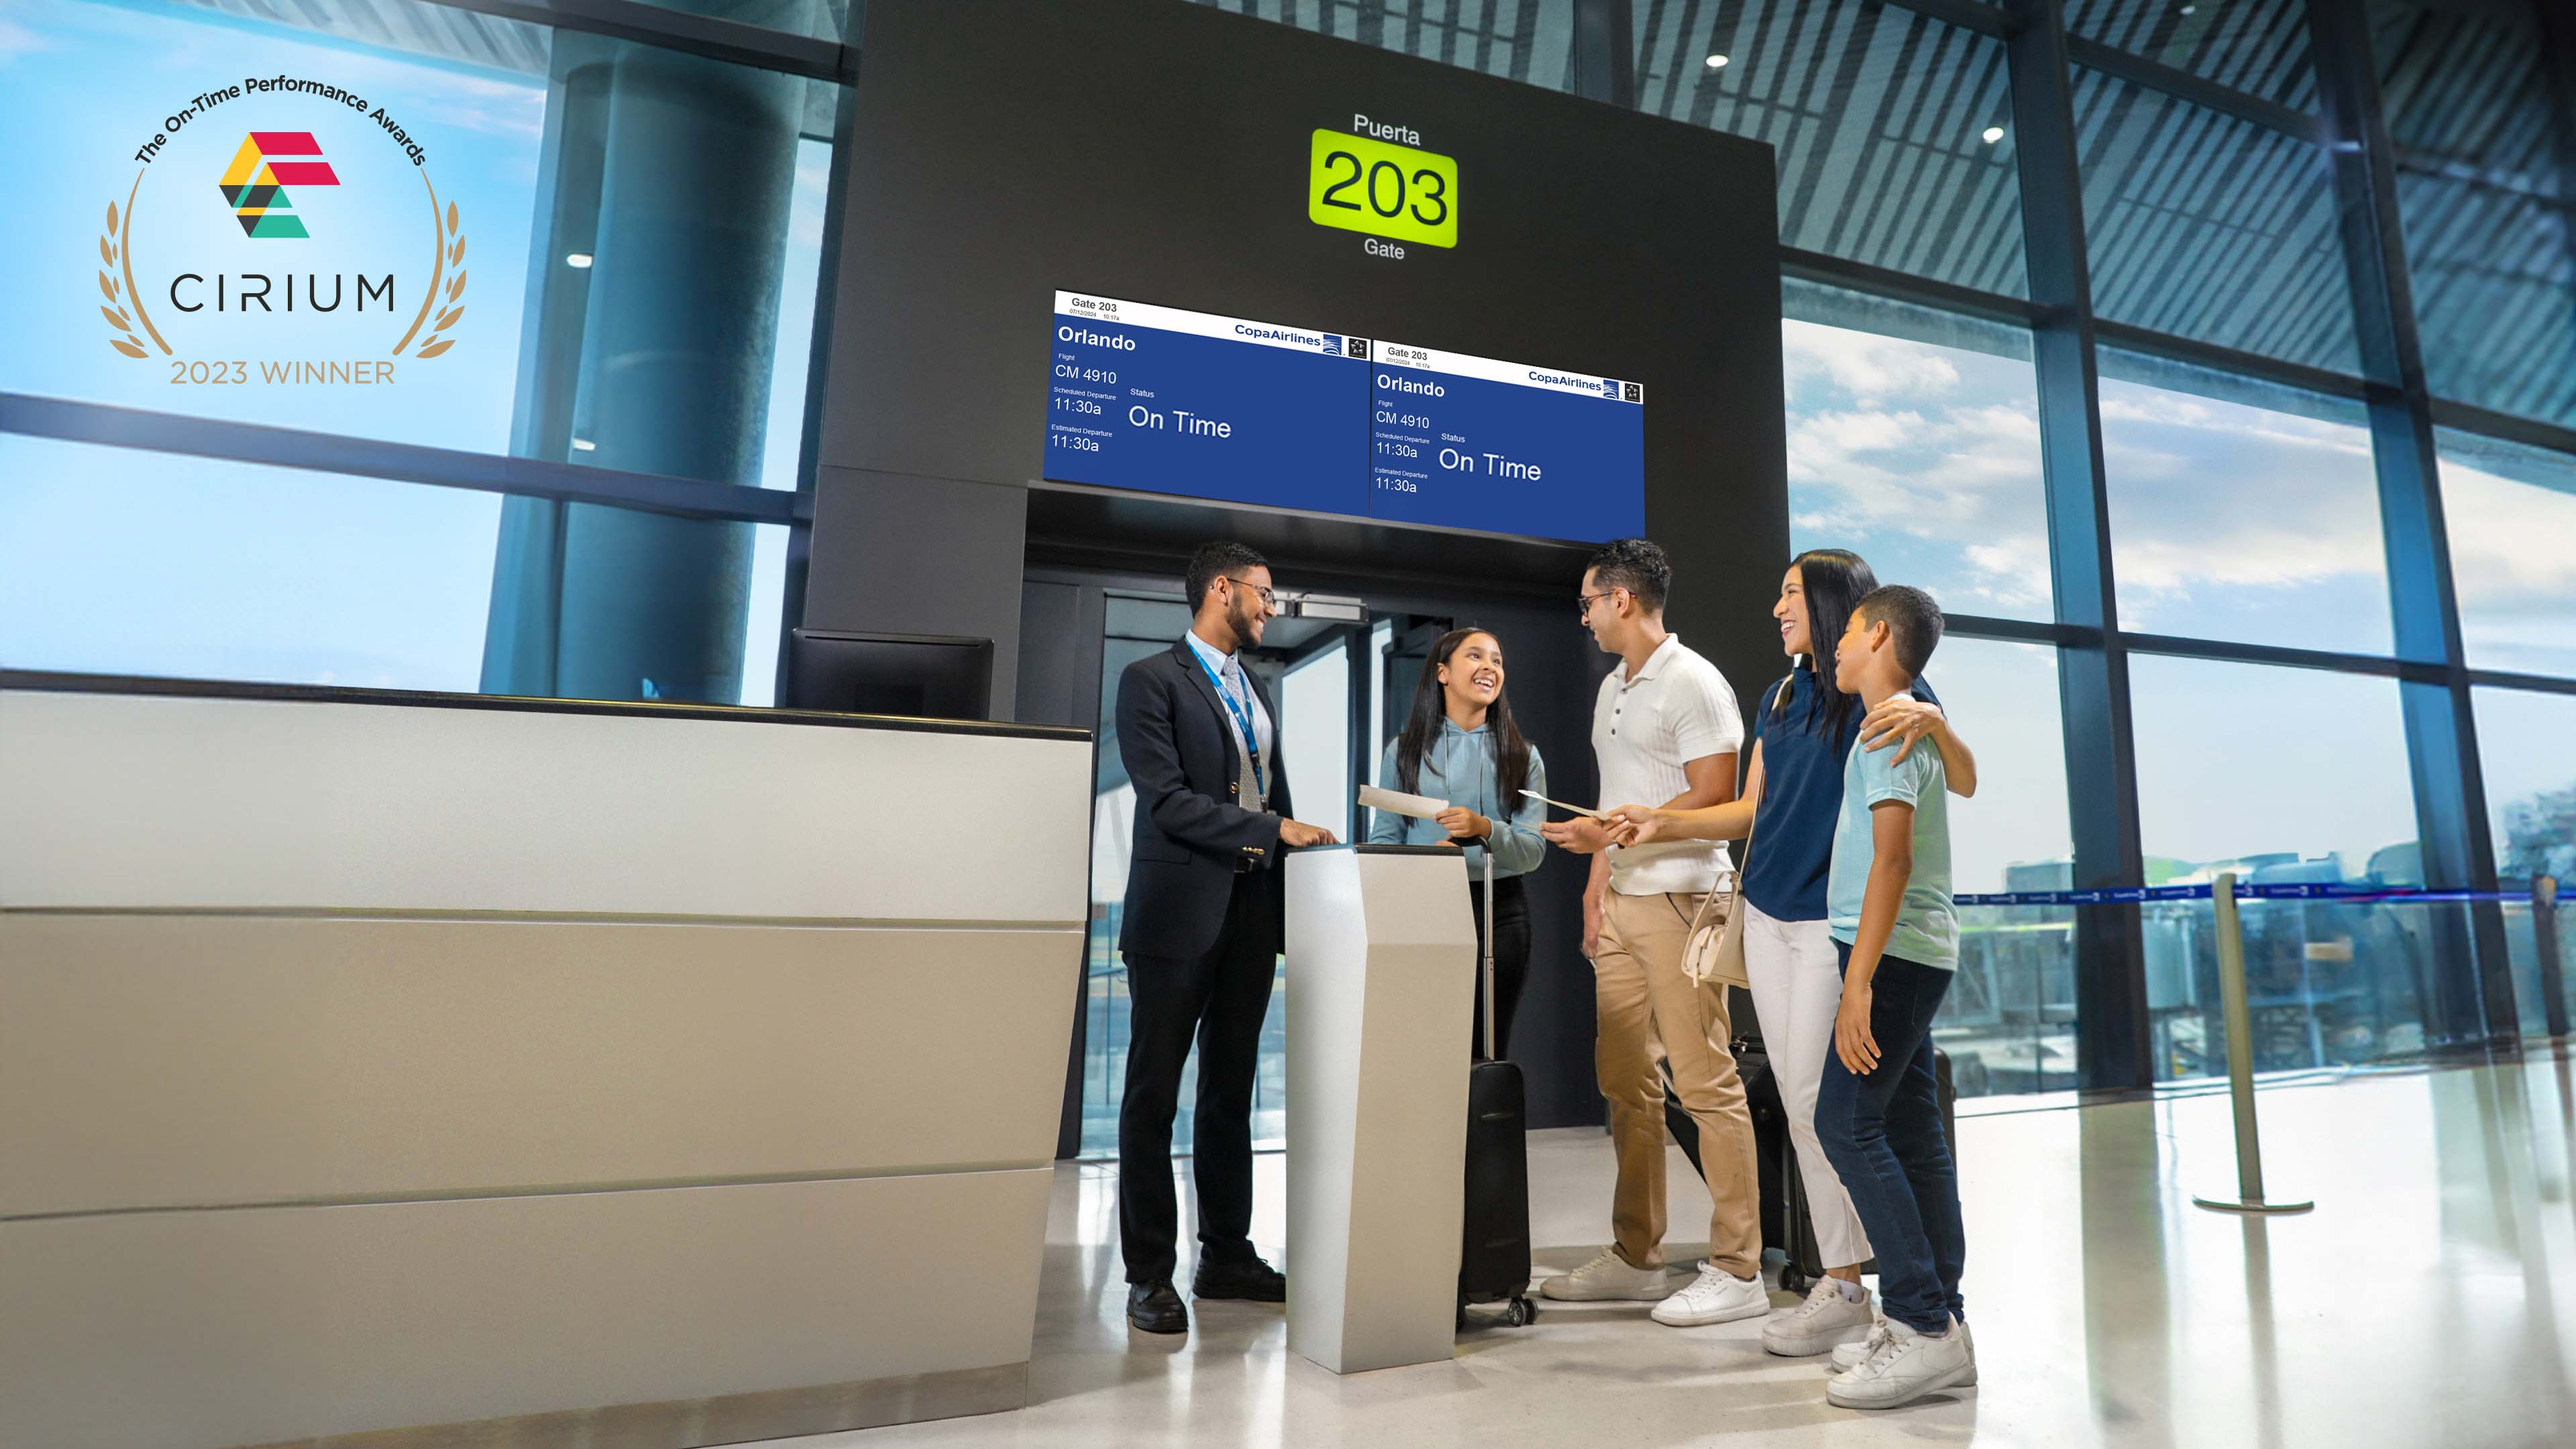
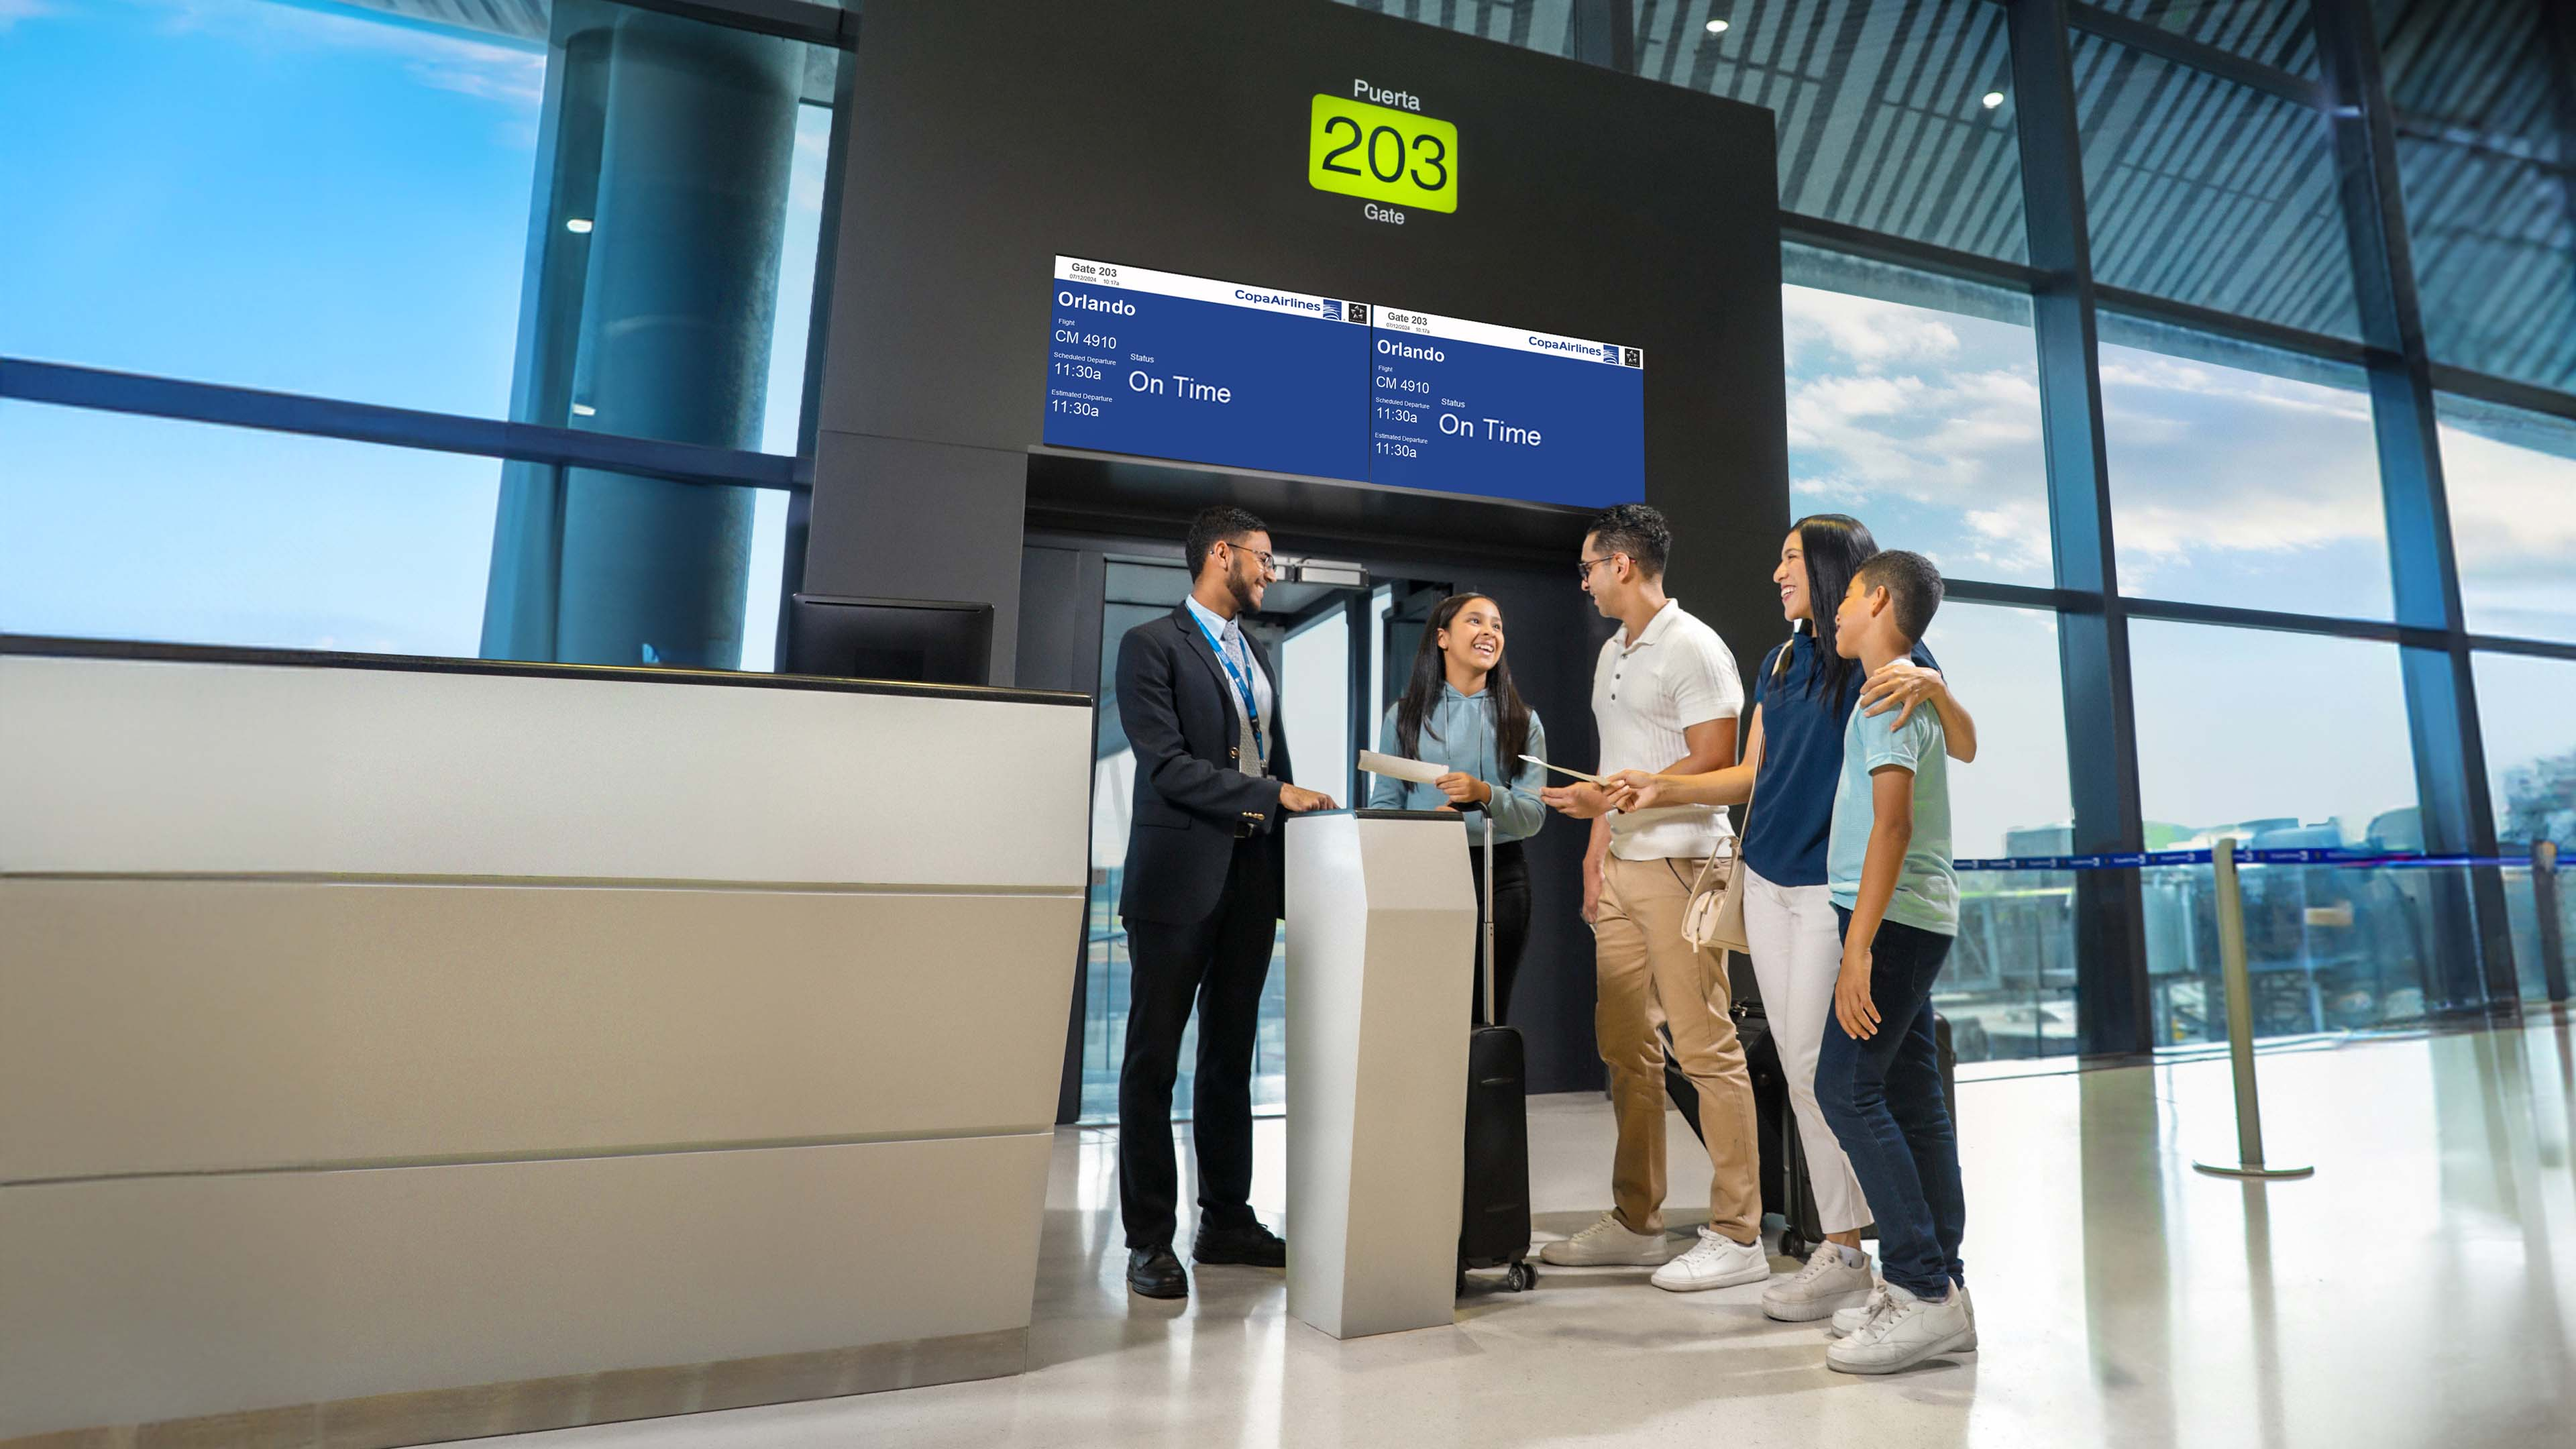
simple dots with autoplay and back to top

diff --git a/src/lib/components/site/hero/hero.svelte b/src/lib/components/site/hero/hero.svelte
@@ -10,24 +10,40 @@
 	import aboutCopa from '$lib/assets/abordaje-de-vuelo.jpg?enhanced';
 	import Autoplay from 'embla-carousel-autoplay';
 	import { BaselinePlayArrow } from '$lib/components/icons';
+	import { onMount } from 'svelte';
+	import { OutlineArrowUpward } from '$lib/components/icons';
+	import { fly } from 'svelte/transition';
+	import { quintInOut } from 'svelte/easing';
+	import { flyAndScale } from '$lib/utils';
+
+	let showBackToTop = false;
+	let section: HTMLDivElement;
+
+	onMount(() => {
+		const ob = new IntersectionObserver((payload) => (showBackToTop = !payload[0].isIntersecting));
+		ob.observe(section);
+	});
 </script>
 
 <div class="w-full h-lvh flex flex-col" id="top">
 	<Header />
-	<div class="h-full relative" id="main">
+	<div class="h-full" id="main" bind:this={section}>
 		<Carousel.Root
-			class="h-full"
+			class="h-full container-grid"
 			plugins={[
 				Autoplay({
 					delay: 5000
 				})
 			]}
 		>
-			<Carousel.Content class="h-full">
+			<div class="col-start-2 row-start-1 self-start my-roomy z-10">
+				<Carousel.Dots direction="ltr" variant="invert" class="border-0"></Carousel.Dots>
+			</div>
+			<Carousel.Content class="h-full col-span-full row-span-full">
 				<Carousel.Container class="h-full">
-					<Carousel.Item class="h-full">
+					<Carousel.Item>
 						<Slide.Root image={mainImage} class="h-full">
-							<Slide.Overlay />
+							<Slide.Overlay class="from-30%" />
 							<Slide.Content
 								class="col-start-1 col-span-full row-start-6 row-span-5 flex-col-reverse"
 							>
@@ -49,7 +65,7 @@
 							</Slide.Content>
 						</Slide.Root>
 					</Carousel.Item>
-					<Carousel.Item class="relative">
+					<Carousel.Item>
 						<Slide.Root image={mapImage} class="h-full">
 							<Slide.Content class="col-start-1 col-span-full row-span-full justify-center">
 								<Heading variant="displayNormal" class="my-2 text-common-white max-w-[480px]">
@@ -61,35 +77,50 @@
 									Armenia, Barranquilla, Bogotá, Bucaramanga, Cartagena, Cúcuta, Cali, Medellín, San
 									Andrés, Santa Marta y Pereira.
 								</p>
-								<Button variant="light" size="slim" class="my-5 bg-secondary border-secondary">
+								<Button
+									variant="light"
+									size="slim"
+									class="my-5 bg-secondary border-secondary"
+									href="#destinos"
+								>
 									Descubre Nuestros Destinos
 								</Button>
 							</Slide.Content>
 						</Slide.Root>
 					</Carousel.Item>
-					<Carousel.Item class="relative">
+					<Carousel.Item>
 						<Slide.Root image={onBoardImage} class="h-full">
-							<Slide.Overlay class="bg-gradient-to-br"></Slide.Overlay>
-							<Slide.Content class="col-start-1 col-span-full row-start-5 row-span-5">
+							<Slide.Overlay class="bg-gradient-to-br from-15%"></Slide.Overlay>
+							<Slide.Content class="col-start-1 col-span-full row-start-3 row-span-5">
 								<Heading variant="displayNormal" class="my-2 text-common-white">
-									Refrigerio <span class="text-secondary">Siempre</span> Incluido
+									Refrigerio <span class="text-secondary-faded">Siempre</span> Incluido
 								</Heading>
 								<p class="text-gray-100 max-w-prose">sin importar la tarifa o ruta que escojas</p>
-								<Button variant="light" size="slim" class="my-5 bg-secondary border-secondary">
+								<Button
+									variant="light"
+									size="slim"
+									class="my-5 bg-secondary border-secondary"
+									href="#a-bordo"
+								>
 									Conoce nuestro servicio a bordo
 								</Button>
 							</Slide.Content>
 						</Slide.Root>
 					</Carousel.Item>
-					<Carousel.Item class="relative">
+					<Carousel.Item>
 						<Slide.Root image={aboutCopa} class="h-full">
-							<Slide.Overlay class="bg-gradient-to-br" />
-							<Slide.Content class="col-start-1 col-span-full row-start-3 row-span-5 flex-col">
+							<Slide.Overlay class="bg-gradient-to-br from-20%" />
+							<Slide.Content class="col-start-1 col-span-full row-start-3 row-span-6 flex-col">
 								<Heading variant="displayNormal" class="my-2 text-common-white max-w-[560px]">
-									La Aerolínea Más Premiada Por <span class="text-secondary">Puntualidad</span> de América
-									En La Última Década
+									La Aerolínea Más Premiada Por <span class="text-secondary-faded">Puntualidad</span
+									> de América En La Última Década
 								</Heading>
-								<Button variant="light" size="slim" class="my-5 bg-secondary border-secondary">
+								<Button
+									variant="light"
+									size="slim"
+									class="my-5 bg-secondary border-secondary"
+									href="#nosotros"
+								>
 									Descubre Más de Copa Airlines
 								</Button>
 							</Slide.Content>
@@ -97,15 +128,18 @@
 					</Carousel.Item>
 				</Carousel.Container>
 			</Carousel.Content>
-			<div
-				class="absolute left-1/2 top-roomy -translate-x-1/2 col-span-full row-span-full container w-full"
-			>
-				<ul class="flex justify-end items-end gap-2">
-					{#each Array(4) as slide, i}
-						<li class="text-common-white text-lg">{'0' + (i + 1)}</li>
-					{/each}
-				</ul>
-			</div>
 		</Carousel.Root>
 	</div>
 </div>
+
+{#if showBackToTop}
+	<div
+		class="hidden md:block fixed bottom-roomy right-roomy z-10"
+		transition:flyAndScale={{ y: 50, start: 0.5 }}
+	>
+		<Button variant="invert" class="rounded-full p-3" href="#top">
+			<OutlineArrowUpward class="size-8" />
+			<span class="sr-only">Regresar al inicio</span>
+		</Button>
+	</div>
+{/if}

diff --git a/src/lib/components/ui/carrusel/carousel-dots.svelte b/src/lib/components/ui/carrusel/carousel-dots.svelte
@@ -1,12 +1,63 @@
 <script lang="ts">
-	import type { VariantProps } from 'tailwind-variants';
 	import { getEmblaContext } from './context.js';
 	import { cn } from '$lib/utils.js';
 	import type { HTMLAttributes } from 'svelte/elements';
+	import Button from '../button/button.svelte';
+	import type { Props } from '../button/index.js';
 
-	type $$Props = HTMLAttributes<HTMLDivElement>;
+	type Dots = {
+		getTextFn?: (index: number) => string;
+		jump?: boolean | undefined;
+		direction?: 'ltr' | 'rtl' | 'ttb' | 'btt';
+	};
+
+	type $$Props = HTMLAttributes<HTMLDivElement> & Dots & Props;
+
+	const defaultTextFn = (index: number) => ('0' + index).slice(-2);
 
 	let className: $$Props['class'] = undefined;
+	export let getTextFn: $$Props['getTextFn'] = defaultTextFn;
+	export let jump: $$Props['jump'] = undefined;
+	export let direction: $$Props['direction'] = 'ttb';
+	export let variant: $$Props['variant'] = 'default';
+	export let size: $$Props['size'] = 'default';
 	export { className as class };
-	const { scrollSnapList, scrollTo } = getEmblaContext('<Carousel.Next/>');
+
+	const { scrollSnapList, scrollTo, selectedIndex, handleKeyDown, orientation } =
+		getEmblaContext('<Carousel.Next/>');
+
+	const goToSlide = (index: number) => () => scrollTo(index, jump);
 </script>
+
+<ul
+	role="tablist"
+	class={cn(
+		'flex',
+		direction === 'ttb'
+			? 'flex-col'
+			: direction === 'btt'
+				? 'flex-col-reverse'
+				: direction === 'rtl'
+					? 'flex-row-reverse'
+					: 'flex-row'
+	)}
+	on:keydown={handleKeyDown}
+>
+	{#each $scrollSnapList as slide, i}
+		<li>
+			<Button
+				on:click={goToSlide(i)}
+				{variant}
+				{size}
+				class={cn(
+					'transition-opacity',
+					$selectedIndex === i ? 'opacity-100' : 'opacity-20',
+					className
+				)}
+			>
+				{getTextFn ? getTextFn(i + 1) : defaultTextFn}
+				<slot />
+			</Button>
+		</li>
+	{/each}
+</ul>

diff --git a/src/lib/components/ui/carrusel/carousel.svelte b/src/lib/components/ui/carrusel/carousel.svelte
@@ -27,18 +27,22 @@
 	$: pluginStore.set(plugins);
 	$: optionsStore.set(opts);
 
-	function scrollPrev() {
+	const scrollPrev = () => {
 		api?.scrollPrev();
-	}
+		if (api) $selectedIndexStore = api.selectedScrollSnap();
+	};
 	function scrollNext() {
 		api?.scrollNext();
+		if (api) $selectedIndexStore = api.selectedScrollSnap();
 	}
 	function scrollTo(index: number, jump?: boolean) {
 		api?.scrollTo(index, jump);
+		if (api) $selectedIndexStore = api.selectedScrollSnap();
 	}
 
 	function onSelect(api: CarouselAPI) {
 		if (!api) return;
+		$selectedIndexStore = api.selectedScrollSnap();
 		canScrollPrev.set(api.canScrollPrev());
 		canScrollNext.set(api.canScrollNext());
 	}
@@ -61,24 +65,23 @@
 
 	setEmblaContext({
 		api: apiStore,
+		orientation: orientationStore,
 		scrollPrev,
 		scrollNext,
-		orientation: orientationStore,
 		canScrollNext,
 		canScrollPrev,
 		handleKeyDown,
 		options: optionsStore,
 		plugins: pluginStore,
 		onInit,
+		scrollTo,
 		scrollSnapList: scrollSnapsStore,
-		selectedIndex: selectedIndexStore,
-		scrollTo
+		selectedIndex: selectedIndexStore
 	});
 
 	function onInit(event: CustomEvent<CarouselAPI>) {
 		api = event.detail;
 		apiStore.set(api);
-		console.log(api.selectedScrollSnap());
 		scrollSnapsStore.set(api.scrollSnapList());
 	}
 

diff --git a/src/lib/components/icons/index.ts b/src/lib/components/icons/index.ts
@@ -11,6 +11,7 @@ import SocialYoutube from "./social-youtube.svelte";
 import SocialTiktok from "./social-tiktok.svelte";
 import OutlineArrowBack from "./outline-arrow-back.svelte";
 import OutlineArrowForward from "./outline-arrow-forward.svelte";
+import OutlineArrowUpward from "./outline-arrow-upward.svelte";
 
 export {
   BaselinePlayArrow,
@@ -20,6 +21,7 @@ export {
   OutlineMenu,
   OutlineArrowBack,
   OutlineArrowForward,
+  OutlineArrowUpward,
   SocialFacebook,
   SocialInstagram,
   SocialLinkedin,

diff --git a/src/lib/components/ui/carrusel/index.ts b/src/lib/components/ui/carrusel/index.ts
@@ -4,3 +4,4 @@ export { default as Container } from './carousel-container.svelte';
 export { default as Item } from "./carousel-item.svelte";
 export { default as Previous } from "./carousel-previous.svelte";
 export { default as Next } from "./carousel-next.svelte";
+export { default as Dots } from './carousel-dots.svelte'

diff --git a/src/lib/components/ui/carrusel/carousel-container.svelte b/src/lib/components/ui/carrusel/carousel-container.svelte
@@ -1,6 +1,5 @@
 <script lang="ts">
 	import type { HTMLAttributes } from 'svelte/elements';
-	import emblaCarouselSvelte from 'embla-carousel-svelte';
 	import { getEmblaContext } from './context.js';
 	import { cn } from '$lib/utils.js';
 

diff --git a/src/lib/components/icons/outline-arrow-upward.svelte b/src/lib/components/icons/outline-arrow-upward.svelte
@@ -1,0 +1,3 @@
+<svg xmlns="http://www.w3.org/2000/svg" width="1em" height="1em" viewBox="0 0 24 24" {...$$props}>
+	<path fill="currentColor" d="m4 12l1.41 1.41L11 7.83V20h2V7.83l5.58 5.59L20 12l-8-8z" />
+</svg>

diff --git a/src/lib/components/site/destinations/destinationsSection.svelte b/src/lib/components/site/destinations/destinationsSection.svelte
@@ -1,4 +1,4 @@
-<script>
+<script lang="ts">
 	import { Button } from '$lib/components/ui/button';
 	import { Heading } from '$lib/components/ui/heading';
 	import * as Carousel from '$lib/components/ui/carrusel';
